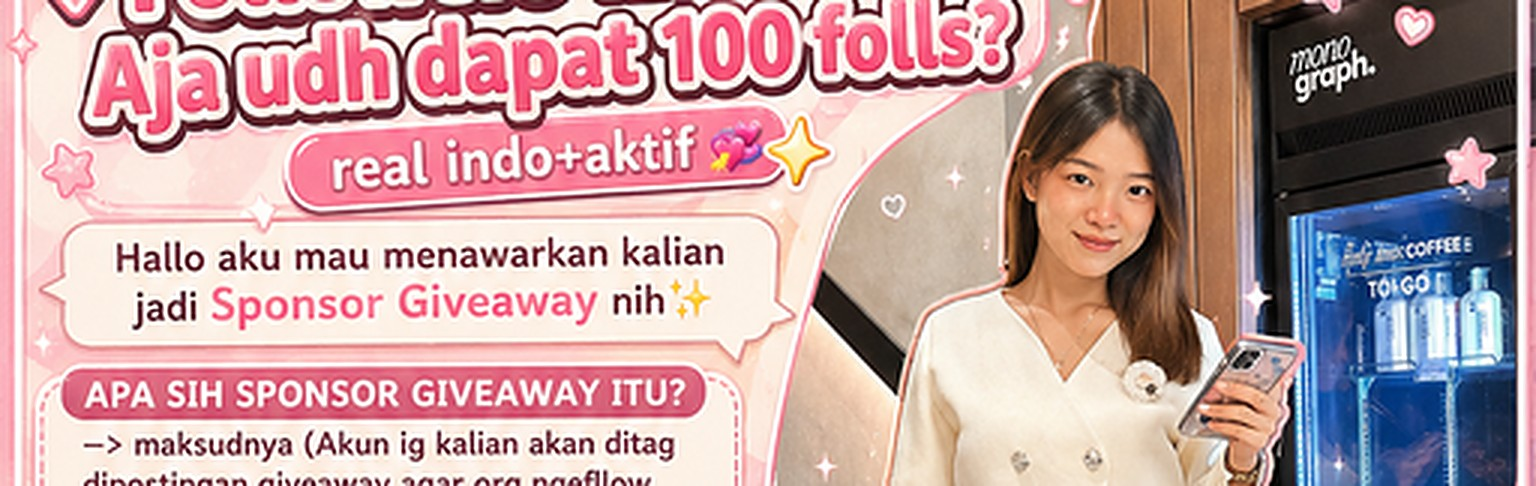
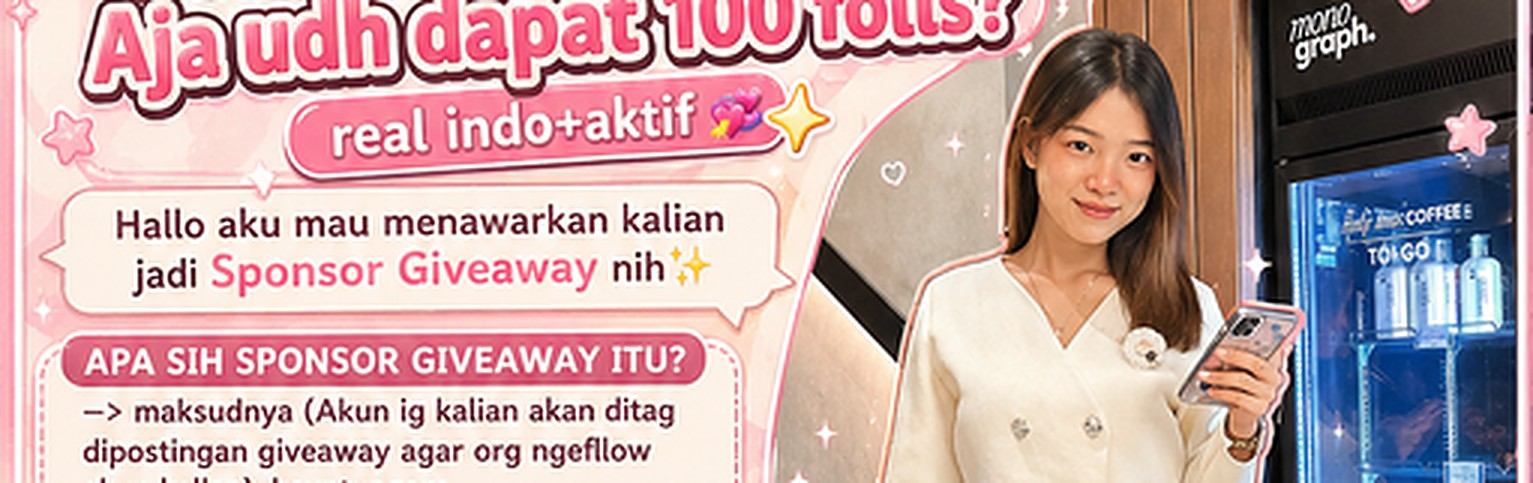
31c1e2af-18bd-48f1-99f2-225e3f466734

diff --git a/src/app/page.tsx b/src/app/page.tsx
@@ -130,6 +130,204 @@ function Reveal({ children, delay = 0, className = '' }: { children: React.React
 }
 
 /* ============================================================
+   GROWTH CHART — full-width dramatic follower growth proof
+   ============================================================ */
+
+const GROWTH_VALUES = [120, 350, 700, 1200, 1900, 2800, 3900, 5200, 6600, 8000, 9200, 10000]
+
+function smoothPath(pts: { x: number; y: number }[]) {
+  let d = `M${pts[0].x},${pts[0].y}`
+  for (let i = 0; i < pts.length - 1; i++) {
+    const p0 = pts[Math.max(0, i - 1)]
+    const p1 = pts[i]
+    const p2 = pts[i + 1]
+    const p3 = pts[Math.min(pts.length - 1, i + 2)]
+    const c1x = p1.x + (p2.x - p0.x) / 6
+    const c1y = p1.y + (p2.y - p0.y) / 6
+    const c2x = p2.x - (p3.x - p1.x) / 6
+    const c2y = p2.y - (p3.y - p1.y) / 6
+    d += ` C${c1x.toFixed(1)},${c1y.toFixed(1)} ${c2x.toFixed(1)},${c2y.toFixed(1)} ${p2.x.toFixed(1)},${p2.y.toFixed(1)}`
+  }
+  return d
+}
+
+function GrowthChart() {
+  const { ref, isInView } = useInView(0.2)
+  const [count, setCount] = useState(0)
+
+  useEffect(() => {
+    if (!isInView) return
+    let raf = 0
+    const t0 = performance.now()
+    const duration = 2400
+    const tick = (now: number) => {
+      const p = Math.min(1, (now - t0) / duration)
+      const eased = 1 - Math.pow(1 - p, 3)
+      setCount(Math.round(eased * 10000))
+      if (p < 1) raf = requestAnimationFrame(tick)
+    }
+    raf = requestAnimationFrame(tick)
+    return () => cancelAnimationFrame(raf)
+  }, [isInView])
+
+  const X0 = 56, X1 = 1156, Y0 = 380, YMAX = 56
+  const pts = GROWTH_VALUES.map((v, i) => ({
+    x: X0 + (i * (X1 - X0)) / (GROWTH_VALUES.length - 1),
+    y: Y0 - (v / 10500) * (Y0 - YMAX),
+  }))
+  const line = smoothPath(pts)
+  const area = `${line} L${X1},${Y0} L${X0},${Y0} Z`
+  const yTicks = [
+    { v: 0, label: '0' },
+    { v: 2500, label: '2,5K' },
+    { v: 5000, label: '5K' },
+    { v: 7500, label: '7,5K' },
+    { v: 10000, label: '10K' },
+  ]
+  const xTicks = [
+    { i: 0, label: 'W1', anchor: 'start' },
+    { i: 2, label: 'W3', anchor: 'middle' },
+    { i: 5, label: 'W6', anchor: 'middle' },
+    { i: 8, label: 'W9', anchor: 'middle' },
+    { i: 11, label: 'W12', anchor: 'end' },
+  ]
+
+  return (
+    <section className="relative w-full overflow-hidden py-14 sm:py-20 bg-gradient-to-b from-pink-50/70 via-white to-sky-50/70">
+      <div className="absolute inset-0 dot-pattern opacity-30 pointer-events-none" />
+      <div className="absolute -top-24 left-1/4 w-96 h-96 bg-pink-200/30 rounded-full blur-3xl pointer-events-none" />
+      <div className="absolute -bottom-32 right-[18%] w-96 h-96 bg-sky-200/30 rounded-full blur-3xl pointer-events-none" />
+
+      <div ref={ref} className="relative w-full px-4 sm:px-8">
+        {/* header */}
+        <div className="flex flex-col lg:flex-row lg:items-end lg:justify-between gap-6 mb-8 sm:mb-10">
+          <div className="text-center lg:text-left">
+            <span className="inline-flex items-center gap-2 glass text-xs sm:text-sm font-bold uppercase tracking-widest px-5 py-2 rounded-full border border-pink-200/80 text-primary shadow-sm">
+              <span className="w-2 h-2 rounded-full bg-emerald-400 animate-pulse" />
+              Live Growth — Setelah Order
+            </span>
+            <h2 className="font-display text-3xl sm:text-4xl lg:text-[2.75rem] font-semibold text-foreground leading-tight mt-5">
+              Followers <span className="gradient-text">Naik Drastis</span> Sampai 10K+++ 🚀
+            </h2>
+            <p className="text-muted-foreground text-base sm:text-lg mt-3 max-w-2xl mx-auto lg:mx-0 leading-relaxed">
+              Ini dia buktinya! Begitu jadi Sponsor Giveaway VIBELY SPACE, followers kamu mengalir
+              deras minggu demi minggu sampai tembus 10K+++.
+            </p>
+          </div>
+          <div className="glass rounded-3xl border border-pink-200/80 shadow-cute px-7 py-5 text-center shrink-0 mx-auto lg:mx-0">
+            <p className="text-[10px] font-bold tracking-[0.25em] text-muted-foreground">TOTAL FOLLS MASUK</p>
+            <p className="font-display text-4xl sm:text-5xl font-bold gradient-text leading-tight mt-1">
+              {count.toLocaleString('id-ID')}<span className="text-[0.55em] align-top">+++</span>
+            </p>
+          </div>
+        </div>
+
+        {/* chart card */}
+        <div className="relative bg-white/90 rounded-[2rem] border border-pink-100 shadow-cute-lg p-3 sm:p-6 lg:p-8">
+          <div className="relative">
+            <svg viewBox="0 0 1200 420" className="w-full h-auto block" role="img" aria-label="Grafik pertumbuhan followers naik drastis sampai 10K+++ setelah order paket">
+              <defs>
+                <linearGradient id="gcLine" x1="0" y1="0" x2="1" y2="0">
+                  <stop offset="0%" stopColor="#F472B6" />
+                  <stop offset="55%" stopColor="#E91E8C" />
+                  <stop offset="100%" stopColor="#0EA5E9" />
+                </linearGradient>
+                <linearGradient id="gcArea" x1="0" y1="0" x2="0" y2="1">
+                  <stop offset="0%" stopColor="#E91E8C" stopOpacity="0.30" />
+                  <stop offset="55%" stopColor="#F472B6" stopOpacity="0.12" />
+                  <stop offset="100%" stopColor="#0EA5E9" stopOpacity="0.02" />
+                </linearGradient>
+              </defs>
+
+              {/* grid + y labels */}
+              {yTicks.map(t => {
+                const y = Y0 - (t.v / 10500) * (Y0 - YMAX)
+                return (
+                  <g key={t.v}>
+                    <line
+                      x1={X0} y1={y} x2={X1} y2={y}
+                      stroke="#F9A8D4"
+                      strokeOpacity={t.v === 0 ? 0.55 : 0.3}
+                      strokeWidth={t.v === 0 ? 2 : 1.5}
+                      strokeDasharray={t.v === 0 ? undefined : '4 7'}
+                    />
+                    <text x={X0 - 12} y={y + 5} textAnchor="end" fontSize="15" fontWeight="600" fill="#94A3B8">{t.label}</text>
+                  </g>
+                )
+              })}
+
+              {/* x labels */}
+              {xTicks.map(t => (
+                <text key={t.label} x={pts[t.i].x} y={408} textAnchor={t.anchor} fontSize="15" fontWeight="600" fill="#94A3B8">{t.label}</text>
+              ))}
+
+              {/* area fill — reveals left to right */}
+              <g style={{
+                clipPath: isInView ? 'inset(0 0% 0 0)' : 'inset(0 100% 0 0)',
+                opacity: isInView ? 1 : 0,
+                transition: 'clip-path 2.4s ease-out, opacity 1.2s ease-out 0.3s',
+              }}>
+                <path d={area} fill="url(#gcArea)" />
+              </g>
+
+              {/* line — draws itself */}
+              <path
+                d={line}
+                fill="none"
+                stroke="url(#gcLine)"
+                strokeWidth="5"
+                strokeLinecap="round"
+                pathLength={1}
+                strokeDasharray="1"
+                strokeDashoffset={isInView ? 0 : 1}
+                style={{ transition: 'stroke-dashoffset 2.4s ease-out' }}
+              />
+
+              {/* milestone dots */}
+              {[5, 8].map(i => (
+                <g key={i} style={{ opacity: isInView ? 1 : 0, transition: `opacity 0.5s ease-out ${0.9 + i * 0.09}s` }}>
+                  <circle cx={pts[i].x} cy={pts[i].y} r="6.5" fill="#fff" stroke={i === 5 ? '#E91E8C' : '#0EA5E9'} strokeWidth="3.5" />
+                  <text x={pts[i].x} y={pts[i].y - 16} textAnchor="middle" fontSize="16" fontWeight="700" fill={i === 5 ? '#E91E8C' : '#0284C7'}>
+                    +{(GROWTH_VALUES[i] / 1000).toFixed(1).replace('.', ',')}K
+                  </text>
+                </g>
+              ))}
+
+              {/* start dot */}
+              <circle cx={pts[0].x} cy={pts[0].y} r="5" fill="#CBD5E1" stroke="#fff" strokeWidth="2.5" />
+
+              {/* peak dot with pulse */}
+              <g style={{ opacity: isInView ? 1 : 0, transition: 'opacity 0.5s ease-out 2.2s' }}>
+                <circle cx={X1} cy={pts[11].y} r="16" fill="#E91E8C" opacity="0.35" className="animate-ping" style={{ transformBox: 'fill-box', transformOrigin: 'center' }} />
+                <circle cx={X1} cy={pts[11].y} r="8" fill="#E91E8C" stroke="#fff" strokeWidth="3.5" />
+              </g>
+            </svg>
+
+            {/* peak chip — 10K+++ */}
+            <div className="absolute pointer-events-none" style={{ left: '96.3%', top: '17%', transform: 'translate(-90%, -130%)' }}>
+              <div className="gradient-animated text-white text-xs sm:text-sm font-display font-bold px-3.5 sm:px-4 py-1.5 sm:py-2 rounded-full shadow-lg shadow-pink-300/50 whitespace-nowrap">
+                10K+++ 🚀
+              </div>
+            </div>
+
+            {/* before-order chip */}
+            <div className="absolute pointer-events-none hidden sm:block" style={{ left: '9%', top: '48%' }}>
+              <span className="glass border border-sky-200/80 text-sky-600 text-xs font-bold px-3 py-1.5 rounded-full whitespace-nowrap shadow-sm">
+                😴 Sebelum order
+              </span>
+            </div>
+          </div>
+
+          <p className="text-center text-[11px] sm:text-xs text-muted-foreground/70 mt-4">
+            *Ilustrasi pertumbuhan rata-rata sponsor aktif — hasil kamu bisa lebih cepat! 💫
+          </p>
+        </div>
+      </div>
+    </section>
+  )
+}
+
+/* ============================================================
    HERO DASHBOARD MOCKUP — marketing analytics card
    ============================================================ */
 
@@ -621,7 +819,7 @@ export default function Home() {
                   </span>
                   <br />
                   <span className="text-[0.62em] sm:text-[0.65em]">Dapatkan </span>
-                  <span className="text-[0.62em] sm:text-[0.65em] gradient-text font-bold">10K++ Folls</span>
+                  <span className="text-[0.62em] sm:text-[0.65em] gradient-text font-bold">10K+++ Folls</span>
                   <span className="text-[0.62em] sm:text-[0.65em]"> Real Indo + Aktif 💞</span>
                 </h1>
 
@@ -663,6 +861,9 @@ export default function Home() {
 
         {/* ===== MARQUEE STRIP ===== */}
         <MarqueeStrip />
+
+        {/* ===== FULL-WIDTH GROWTH CHART ===== */}
+        <GrowthChart />
 
         {/* ===== KPI STATS ===== */}
         <section className="py-14 sm:py-16 relative">

diff --git a/scripts/crop_divider_v2.py b/scripts/crop_divider_v2.py
@@ -1,0 +1,25 @@
+#!/usr/bin/env python3
+"""Replace public/hero-image.png with the user's own crop, then regenerate
+the 19:6 landscape divider from it.
+New poster: 511x437, face detected at x[342,393] y[99,150] (center 367,124).
+Crop 19:6 = 511x161 strip; top=68 puts face ~35% from banner top with
+31px head margin, shoulders included."""
+import shutil
+from PIL import Image, ImageFilter
+
+# 1. Replace the poster with user's crop
+shutil.copy('/home/z/my-project/upload/hero-image.png', '/home/z/my-project/public/hero-image.png')
+print('public/hero-image.png replaced with user upload')
+
+# 2. Regenerate 19:6 divider from the new poster
+img = Image.open('/home/z/my-project/upload/hero-image.png').convert('RGB')
+W, H = img.size
+crop_h = round(W * 6 / 19)   # 161
+top = 68
+crop = img.crop((0, top, W, top + crop_h))
+print('crop box:', (0, top, W, top + crop_h), '->', crop.size)
+
+big = crop.resize((W * 3, crop_h * 3), Image.LANCZOS)   # 1533x483
+big = big.filter(ImageFilter.UnsharpMask(radius=1.6, percent=70, threshold=2))
+big.save('/home/z/my-project/public/poster-divider.jpg', quality=90)
+print('saved poster-divider.jpg', big.size, f'face at {(124-top)/crop_h*100:.0f}% from top')

diff --git a/scripts/detect_face_new.py b/scripts/detect_face_new.py
@@ -1,0 +1,23 @@
+#!/usr/bin/env python3
+"""Detect face in the user's newly cropped poster (511x437) to build the
+19:6 landscape divider while keeping the face visible."""
+import cv2
+
+src = '/home/z/my-project/upload/hero-image.png'
+img = cv2.imread(src)
+H, W = img.shape[:2]
+print(f'Image: {W}x{H}')
+
+gray = cv2.cvtColor(img, cv2.COLOR_BGR2GRAY)
+gray = cv2.equalizeHist(gray)
+
+for name in ['haarcascade_frontalface_default.xml', 'haarcascade_frontalface_alt2.xml']:
+    cascade = cv2.CascadeClassifier(cv2.data.haarcascades + name)
+    faces = cascade.detectMultiScale(gray, scaleFactor=1.05, minNeighbors=5, minSize=(30, 30))
+    if len(faces):
+        print(f'{name}: {len(faces)} face(s)')
+        for (x, y, w, h) in faces:
+            print(f'  box: x={x} y={y} w={w} h={h} center=({x+w//2},{y+h//2})')
+        break
+else:
+    print('No face detected')

diff --git a/worklog.md b/worklog.md
@@ -72,3 +72,23 @@ Stage Summary:
 - Poster kini sekat landscape 19:6 antara section Tentang dan Price List, wajah terlihat
 - Dashboard mockup tidak lagi menampilkan poster kecil
 - Hero: "Dapatkan 10K++ Folls Real Indo + Aktif"
+
+---
+Task ID: growth-chart-poster-v2
+Agent: Main Agent (Super Z)
+Task: Grafik pertumbuhan follower full-width di bawah marquee + ganti poster dengan crop user
+
+Work Log:
+- User upload poster hasil crop sendiri (511x437) ke upload/hero-image.png; wajah terdeteksi x[342,393] y[99,150] center (367,124)
+- scripts/crop_divider_v2.py: public/hero-image.png diganti file user; sekat 19:6 regenerasi (crop 511x161 top=68, wajah 35% dari atas, upscale 3x -> 1533x483)
+- Komponen GrowthChart (page.tsx): SVG viewBox 1200x420, data 12 minggu 120->10.000 folls, kurva smooth Catmull-Rom->Bezier, gradient line pink->sky, area gradient
+- Animasi saat in-view: garis tergambar (stroke-dashoffset pathLength), area reveal kiri->kanan (clip-path), milestone dots +2,8K (W6) & +6,6K (W9), peak dot pulsing + chip gradient "10K+++ 🚀", chip "😴 Sebelum order"
+- Counter angka naik 0->10.000 (format id-ID) di kartu glass "TOTAL FOLLS MASUK"
+- Section full-width (w-full, px-4/sm:px-8, tanpa max-w) ditempatkan tepat di bawah <MarqueeStrip />, sebelum KPI stats
+- Hero konsisten: "10K++ Folls" -> "10K+++ Folls"
+- Build sukses, deploy --prod, verifikasi: site 200, semua elemen chart ada, poster-divider.jpg ter-serve (189KB, ukuran baru)
+
+Stage Summary:
+- Live di https://vibely-space.vercel.app
+- Grafik pertumbuhan full-width memukau di bawah marquee MURAH✦CEPAT✦TERPERCAYA✦...
+- Poster = crop milik user, sekat 19:6 wajah tetap terlihat
